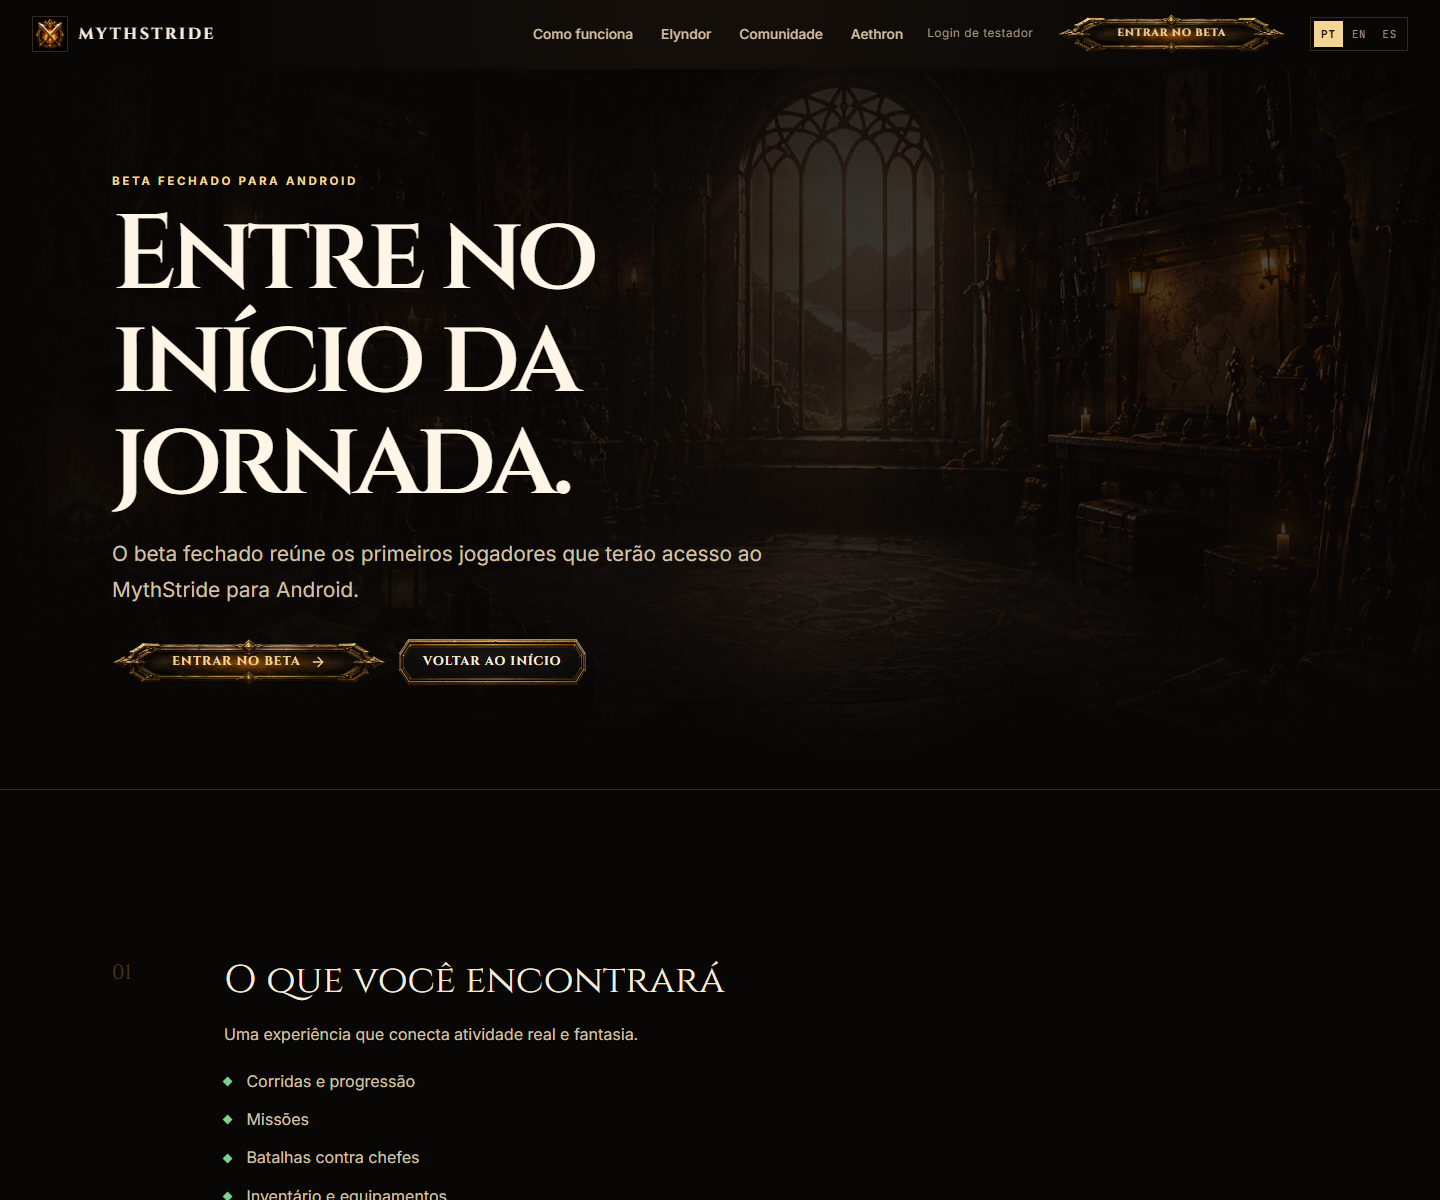
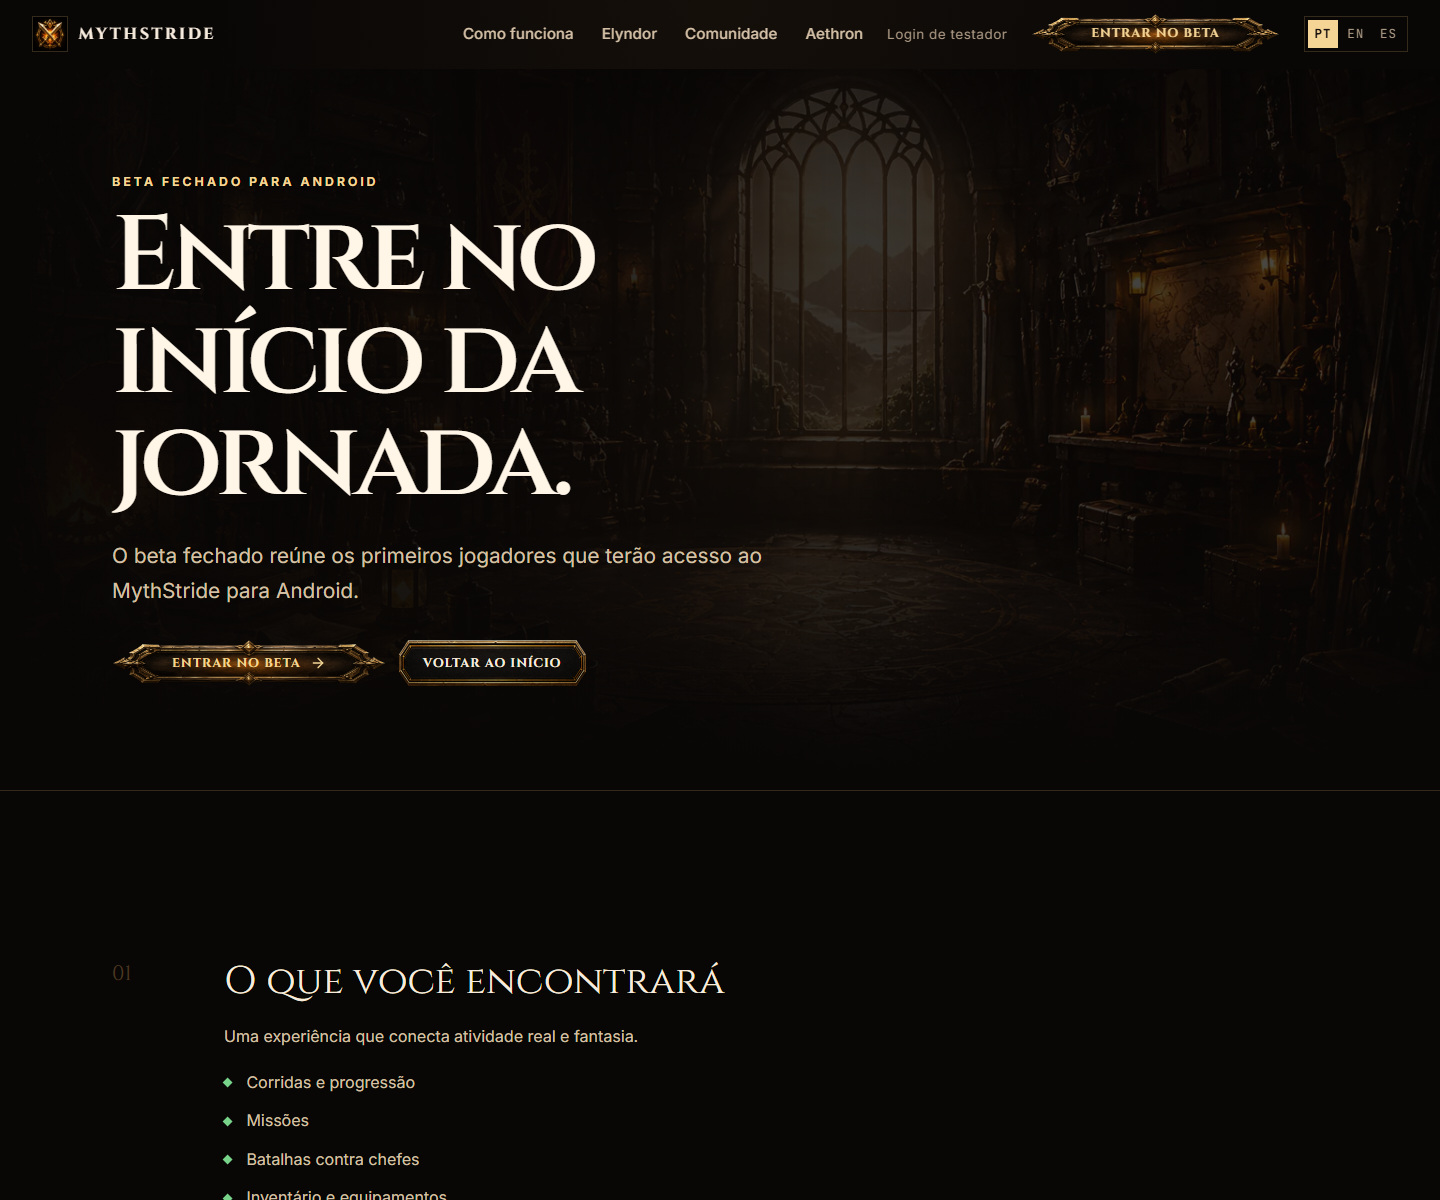
correcoes letras

diff --git a/src/app/globals.css b/src/app/globals.css
@@ -1078,6 +1078,15 @@ body {
   --site-surface: rgba(19, 14, 11, 0.94);
   --site-surface-raised: rgba(32, 23, 17, 0.92);
   --site-shadow: 0 28px 80px rgba(0, 0, 0, 0.4);
+
+  /* The legibility floor for small type. Everything that used to sit between
+     0.58rem and 0.78rem now resolves to one of these three steps, so "how
+     small may this get" has a single answer that can be raised in one place.
+     Named `--type-*` rather than `--text-*` to stay clear of Tailwind v4's own
+     font-size namespace. */
+  --type-micro: 0.7rem;    /* 11.2px - tracked uppercase micro-labels */
+  --type-label: 0.78rem;   /* 12.5px - eyebrows, chips, rail and rarity labels */
+  --type-caption: 0.84rem; /* 13.4px - captions, notes, consent copy */
 }
 
 body {
@@ -1133,7 +1142,7 @@ summary:focus-visible {
 .section-eyebrow {
   margin: 0;
   color: var(--color-gold-bright);
-  font-size: 0.72rem;
+  font-size: var(--type-label);
   font-weight: 700;
   letter-spacing: 0.23em;
   line-height: 1.4;
@@ -1249,9 +1258,10 @@ summary:focus-visible {
 
 .button--nav {
   min-height: 2.5rem;
-  padding: 0.65rem 0.85rem;
+  padding: 0.65rem 0.95rem;
   border-color: var(--site-border-strong);
-  font-size: 0.66rem;
+  font-size: var(--type-label);
+  white-space: nowrap;
 }
 
 .button__icon,
@@ -1339,19 +1349,22 @@ summary:focus-visible {
 .site-nav__desktop {
   display: flex;
   align-items: center;
-  gap: 1.5rem;
+  gap: clamp(1.1rem, 1.65vw, 1.5rem);
 }
 
 .site-nav__links {
   display: flex;
   align-items: center;
-  gap: 1.75rem;
+  gap: clamp(1.25rem, 1.95vw, 1.75rem);
 }
 
 .site-nav__links a {
   position: relative;
   color: var(--color-text-secondary);
-  font-size: 0.86rem;
+  /* The primary menu. It sat at 0.86rem, which read as secondary text next to
+     the destinations it names. */
+  font-size: 0.95rem;
+  white-space: nowrap;
   font-weight: 500;
   transition: color 180ms ease;
 }
@@ -1379,7 +1392,8 @@ summary:focus-visible {
 
 .tester-link {
   color: var(--color-text-muted);
-  font-size: 0.74rem;
+  font-size: var(--type-caption);
+  white-space: nowrap;
   letter-spacing: 0.04em;
   transition: color 180ms ease;
 }
@@ -1395,7 +1409,7 @@ summary:focus-visible {
   padding: 0.2rem;
   border: 1px solid var(--site-border);
   font-family: var(--font-mono);
-  font-size: 0.68rem;
+  font-size: var(--type-label);
   letter-spacing: 0.08em;
 }
 
@@ -1757,7 +1771,7 @@ summary:focus-visible {
   display: grid;
   gap: 0.5rem;
   color: var(--color-gold-muted);
-  font-size: 0.68rem;
+  font-size: var(--type-label);
   font-weight: 800;
   letter-spacing: 0.12em;
   text-transform: uppercase;
@@ -1823,7 +1837,7 @@ summary:focus-visible {
 
 .waitlist-form__disclosure {
   color: var(--color-text-muted);
-  font-size: 0.78rem;
+  font-size: var(--type-caption);
   line-height: 1.55;
 }
 
@@ -1884,7 +1898,7 @@ summary:focus-visible {
   display: grid;
   gap: 0.5rem;
   color: var(--color-gold-muted);
-  font-size: 0.68rem;
+  font-size: var(--type-label);
   font-weight: 800;
   letter-spacing: 0.12em;
   text-transform: uppercase;
@@ -1981,7 +1995,7 @@ summary:focus-visible {
   margin: 0 0 0.4rem;
   color: var(--color-gold-bright);
   font-family: var(--font-display);
-  font-size: 0.77rem;
+  font-size: var(--type-caption);
   letter-spacing: 0.1em;
   text-transform: uppercase;
 }
@@ -2005,7 +2019,7 @@ summary:focus-visible {
   padding-top: 1.25rem;
   border-top: 1px solid rgba(227, 186, 115, 0.1);
   color: var(--color-text-muted);
-  font-size: 0.7rem;
+  font-size: var(--type-label);
   line-height: 1.5;
 }
 
@@ -2188,11 +2202,13 @@ summary:focus-visible {
   border-top: 1px solid var(--site-border);
 }
 
-@media (max-width: 72rem) {
+@media (max-width: 78rem) {
   .site-nav__links {
     display: none;
   }
+}
 
+@media (max-width: 72rem) {
   .site-footer__grid {
     grid-template-columns: repeat(3, minmax(0, 1fr));
   }
@@ -2627,7 +2643,7 @@ summary:focus-visible {
   border: 1px solid rgba(227, 186, 115, 0.34);
   color: var(--color-gold-bright);
   background: rgba(9, 7, 6, 0.6);
-  font-size: 0.66rem;
+  font-size: var(--type-label);
   font-weight: 700;
   letter-spacing: 0.22em;
   text-transform: uppercase;
@@ -2711,7 +2727,7 @@ summary:focus-visible {
   max-width: 24rem;
   margin: 1.5rem auto 0;
   color: var(--color-text-muted);
-  font-size: 0.74rem;
+  font-size: var(--type-caption);
   line-height: 1.6;
   text-align: center;
 }
@@ -2766,7 +2782,7 @@ summary:focus-visible {
 .hero-hud__label {
   display: block;
   color: var(--color-text-muted);
-  font-size: 0.58rem;
+  font-size: var(--type-micro);
   font-weight: 700;
   letter-spacing: 0.18em;
   text-transform: uppercase;
@@ -2841,7 +2857,7 @@ summary:focus-visible {
   margin-top: 0.45rem;
   color: var(--color-text-secondary);
   font-family: var(--font-mono);
-  font-size: 0.72rem;
+  font-size: var(--type-label);
 }
 
 @keyframes damage-float {
@@ -3031,7 +3047,7 @@ summary:focus-visible {
 
 .boss-readout dt {
   color: var(--color-text-muted);
-  font-size: 0.6rem;
+  font-size: var(--type-micro);
   font-weight: 700;
   letter-spacing: 0.18em;
   text-transform: uppercase;
@@ -3079,7 +3095,7 @@ summary:focus-visible {
 .boss-hud__eyebrow {
   margin: 0;
   color: var(--color-gold-bright);
-  font-size: 0.6rem;
+  font-size: var(--type-micro);
   font-weight: 700;
   letter-spacing: 0.22em;
   text-transform: uppercase;
@@ -3210,7 +3226,7 @@ summary:focus-visible {
   margin-top: 0.25rem;
   color: var(--color-text-muted);
   font-family: var(--font-mono);
-  font-size: 0.68rem;
+  font-size: var(--type-micro);
 }
 
 /* ---- Loot ---------------------------------------------------------------- */
@@ -3229,7 +3245,7 @@ summary:focus-visible {
   align-items: center;
   gap: 0.45rem;
   color: var(--color-text-muted);
-  font-size: 0.72rem;
+  font-size: var(--type-label);
   font-weight: 600;
   letter-spacing: 0.12em;
   text-transform: uppercase;
@@ -3320,7 +3336,7 @@ summary:focus-visible {
 .loot-card__rarity {
   margin: 0.4rem 0 0;
   color: var(--rarity);
-  font-size: 0.66rem;
+  font-size: var(--type-label);
   font-weight: 700;
   letter-spacing: 0.16em;
   text-transform: uppercase;
@@ -3406,7 +3422,7 @@ summary:focus-visible {
   gap: 0.5rem;
   margin: 0;
   color: var(--color-text-muted);
-  font-size: 0.66rem;
+  font-size: var(--type-label);
   font-weight: 700;
   letter-spacing: 0.18em;
   text-transform: uppercase;
@@ -3428,7 +3444,7 @@ summary:focus-visible {
   justify-content: space-between;
   color: var(--color-text-muted);
   font-family: var(--font-mono);
-  font-size: 0.72rem;
+  font-size: var(--type-label);
 }
 
 .character-sheet__bar {
@@ -3468,7 +3484,7 @@ summary:focus-visible {
 .character-sheet__label {
   margin: 1.75rem 0 0.9rem;
   color: var(--color-text-muted);
-  font-size: 0.62rem;
+  font-size: var(--type-micro);
   font-weight: 700;
   letter-spacing: 0.2em;
   text-transform: uppercase;
@@ -3528,7 +3544,7 @@ summary:focus-visible {
 
 .character-slot__slot {
   color: var(--rarity);
-  font-size: 0.6rem;
+  font-size: var(--type-micro);
   font-weight: 700;
   letter-spacing: 0.16em;
   text-transform: uppercase;
@@ -3570,7 +3586,7 @@ summary:focus-visible {
 .character-shot figcaption {
   margin-top: 0.9rem;
   color: var(--color-text-muted);
-  font-size: 0.74rem;
+  font-size: var(--type-label);
   letter-spacing: 0.08em;
   text-transform: uppercase;
 }
@@ -3721,7 +3737,7 @@ summary:focus-visible {
 .chronicle-card__more {
   margin-top: 0.35rem;
   color: var(--color-gold-bright);
-  font-size: 0.7rem;
+  font-size: var(--type-label);
   font-weight: 700;
   letter-spacing: 0.16em;
   text-transform: uppercase;
@@ -4341,7 +4357,7 @@ summary:focus-visible {
 
 .site-footer__locales span {
   color: var(--color-gold-muted);
-  font-size: 0.64rem;
+  font-size: var(--type-micro);
   font-weight: 700;
   letter-spacing: 0.18em;
   text-transform: uppercase;
@@ -4554,9 +4570,6 @@ summary:focus-visible {
     padding-inline: 0.35rem;
   }
 
-  .boss-ladder__meta {
-    font-size: 0.62rem;
-  }
 }
 
 /* ---- Anchors under a sticky header ---------------------------------------
@@ -4572,13 +4585,8 @@ summary:focus-visible {
 }
 
 /* Supporting figures stay above the 10px line even on the densest row. */
-.boss-ladder__meta {
-  font-size: 0.7rem;
-}
-
 @media (min-width: 72.001rem) {
   .boss-ladder__meta {
-    font-size: 0.66rem;
     letter-spacing: -0.01em;
   }
 }

diff --git a/visual-review/VISUAL_QA.md b/visual-review/VISUAL_QA.md
@@ -3,7 +3,7 @@
 Data: 18 de setembro de 2026
 Origem: export estático local em `http://127.0.0.1:4173`
 Captura: Google Chrome headless, controlado pelo Chrome DevTools Protocol (sem dependências adicionais)
-Escopo: rodada 1 — redesenho completo da HOME; rodada 2 — QA final de lançamento; rodada 3 — ajuste estratégico de eventos, comunidade e chefes. As páginas institucionais foram recapturadas nas duas para confirmar que o novo cabeçalho e o novo rodapé não as afetaram.
+Escopo: rodada 1 — redesenho completo da HOME; rodada 2 — QA final de lançamento; rodada 3 — ajuste estratégico de eventos, comunidade e chefes; rodada 4 — legibilidade tipográfica. As páginas institucionais foram recapturadas nas duas para confirmar que o novo cabeçalho e o novo rodapé não as afetaram.
 
 ## Resultado
 
@@ -141,6 +141,56 @@ O CTA reutiliza o canal que já existe, `legalConfig.contactEmail`, como um `mai
 - CTA de organizador: `<a>` real com `mailto:`, 46 px de altura, dentro da viewport nas três línguas em 1440×900 e 390×844, `<h3>` sob o `<h2>` da seção.
 - Checagem de copy: nenhuma contagem de chefes, frequência de eventos, métrica de público, promessa de alcance, garantia de aprovação ou modelo comercial no HTML gerado das três línguas.
 - Regressão visual: as 9 capturas de primeira dobra e as páginas institucionais continuam **pixel-idênticas**. Só as duas capturas de página inteira em PT-BR mudaram de altura (14.357 → 14.823 no desktop; 19.346 → 19.999 no mobile), que é o bloco de organizadores mais a copy mais longa.
+
+## Rodada 4 — legibilidade tipográfica
+
+Ajuste só de tamanho de fonte nos textos pequenos. Nenhum título, CTA, cor, espaçamento, animação, imagem ou copy foi alterado.
+
+### Método
+
+Um script mediu todos os tamanhos de texto efetivamente renderizados na Home, do menor para o maior, em vez de decidir no olho. O piso era **9,3 px** (`hero-hud__label`), com 11 estilos distintos abaixo de 11 px.
+
+### O que mudou
+
+Três tokens novos substituem os ~20 valores soltos que existiam entre 0,58 rem e 0,78 rem, de modo que "quão pequeno isto pode ficar" passe a ter uma resposta só:
+
+| Token | Valor | Usado em |
+| --- | --- | --- |
+| `--type-micro` | 0,7 rem (11,2 px) | micro-rótulos maiúsculos: HUD, `dt` do boss, slots do personagem, campanha, idioma no rodapé |
+| `--type-label` | 0,78 rem (12,5 px) | eyebrows, CTA do cabeçalho, seletor de idiomas, raridades, legendas, rótulos de formulário, base do rodapé |
+| `--type-caption` | 0,84 rem (13,4 px) | legenda da hero, login de testador, títulos de coluna do rodapé, texto de consentimento |
+
+Os links do menu principal foram de 0,86 rem para **0,95 rem (15,2 px)**, tratados à parte por serem navegação e não microcopy.
+
+Piso final: **11,2 px**, contra 9,3 px antes. Nada abaixo disso.
+
+### Menu: uma quebra encontrada e corrigida
+
+Com as fontes maiores, a barra do cabeçalho passou a não caber numa faixa estreita: em espanhol entre 1153 px e ~1200 px os links quebravam em duas linhas e o CTA virava um botão de duas alturas (52 px). A medição mostrou que a faixa já era apertada antes — o aumento só a deslocou para cima.
+
+Correção pelo mecanismo que já existia: os links inline passam a ceder lugar ao menu compacto em **78 rem (1248 px)** em vez de 72 rem, e os espaçamentos do cabeçalho viraram `clamp()` que mantém exatamente o valor aprovado em 1440 px e acima. Um `white-space: nowrap` garante que nenhum rótulo quebre no meio.
+
+Resultado medido em pt-BR, en e es, de 840 px a 1440 px: **uma linha em todas as larguras**, sem quebra e sem overflow. Os quatro viewports pedidos — 1280, 1366, 1440 e 1920 — continuam mostrando o menu completo.
+
+### Verificação
+
+- 30 combinações (3 línguas × 10 viewports): overflow **0**, elementos extrapolando **0**, imagens quebradas **0**, reveals invisíveis **0**, `h1` **1**, saltos de heading **0**, âncoras inválidas **0**, erros de console **0**, requests falhos **0**. CTA principal dentro da primeira dobra em todos.
+- Altura da página: **+51 px** no desktop e **+122 px** no mobile. Nenhuma seção mudou de estrutura.
+- Regressão visual: a diferença aparece em todas as páginas porque o cabeçalho e os eyebrows são comuns — 2,8% a 8,4% dos pixels no desktop, 23,8% na primeira dobra mobile (viewport pequeno, texto pequeno pesa mais). A inspeção lado a lado do cabeçalho confirma mesmo layout, mesmo logo, mesmo botão ornamentado, só o texto maior.
+
+## Arte da Medusa — reencode
+
+A `medusa.webp` original tinha sido gerada com `quality: 74` e `alphaQuality: 80`. A medição explicou por que ficou ruim: **61% da imagem é alfa suave**, e compressão agressiva do canal alfa nesse caso destrói o brilho dourado e o detalhe das escamas. Contra o PNG de origem, aquele arquivo media **22,6 dB de PSNR** (RMSE 19, erro máximo 198) — visivelmente lavado e borrado.
+
+O arquivo foi regerado a partir do PNG de 1254 px com `quality: 90` e `alphaQuality: 100`, a 960 px — o suficiente para 2x no desktop (416 px de CSS) e 3x no mobile (320 px de CSS):
+
+| | Tamanho | PSNR |
+| --- | --- | --- |
+| PNG de origem | 2.486 KB | referência |
+| WebP antigo | 139 KB | 22,6 dB |
+| WebP novo | 403 KB | ~32 dB |
+
+O PNG de origem foi movido para `assets/source/art/medusa.png`, junto das outras artes originais, para não ser publicado no export. Peso da página inteira: **4.795 KB → 2.712 KB**.
 
 ## Pendências para decisão humana
 
